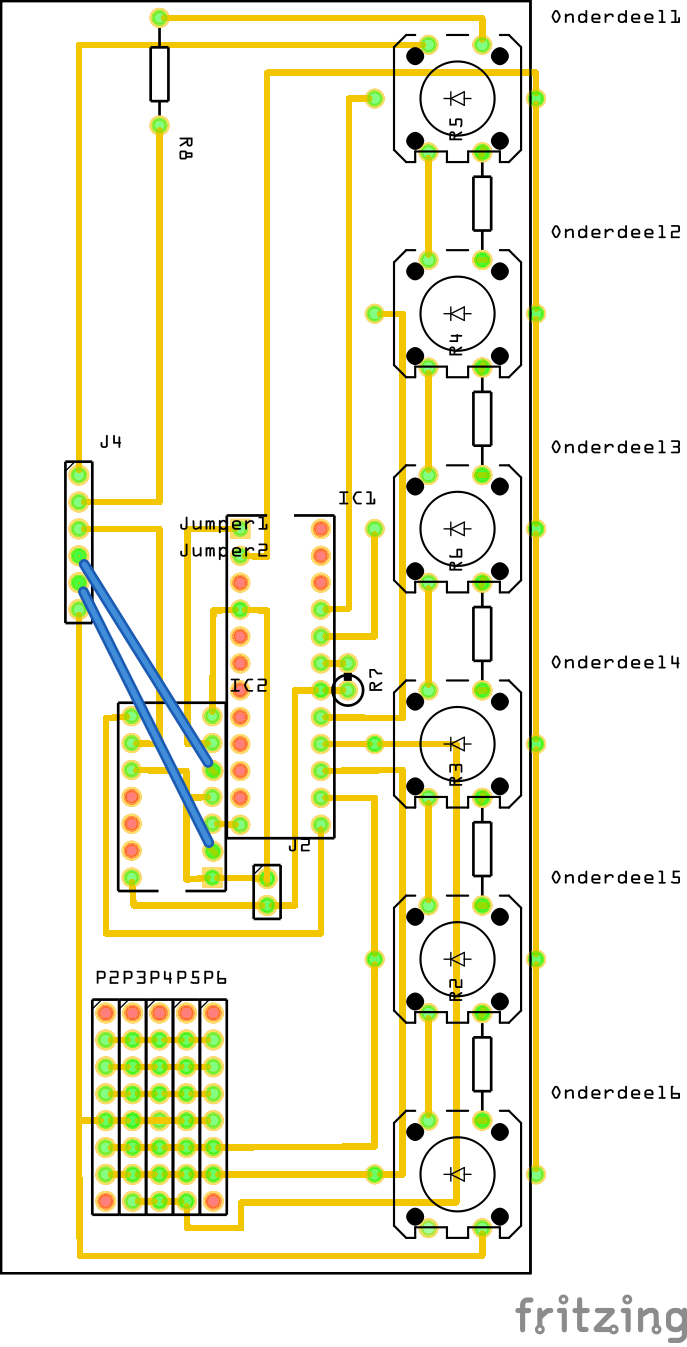
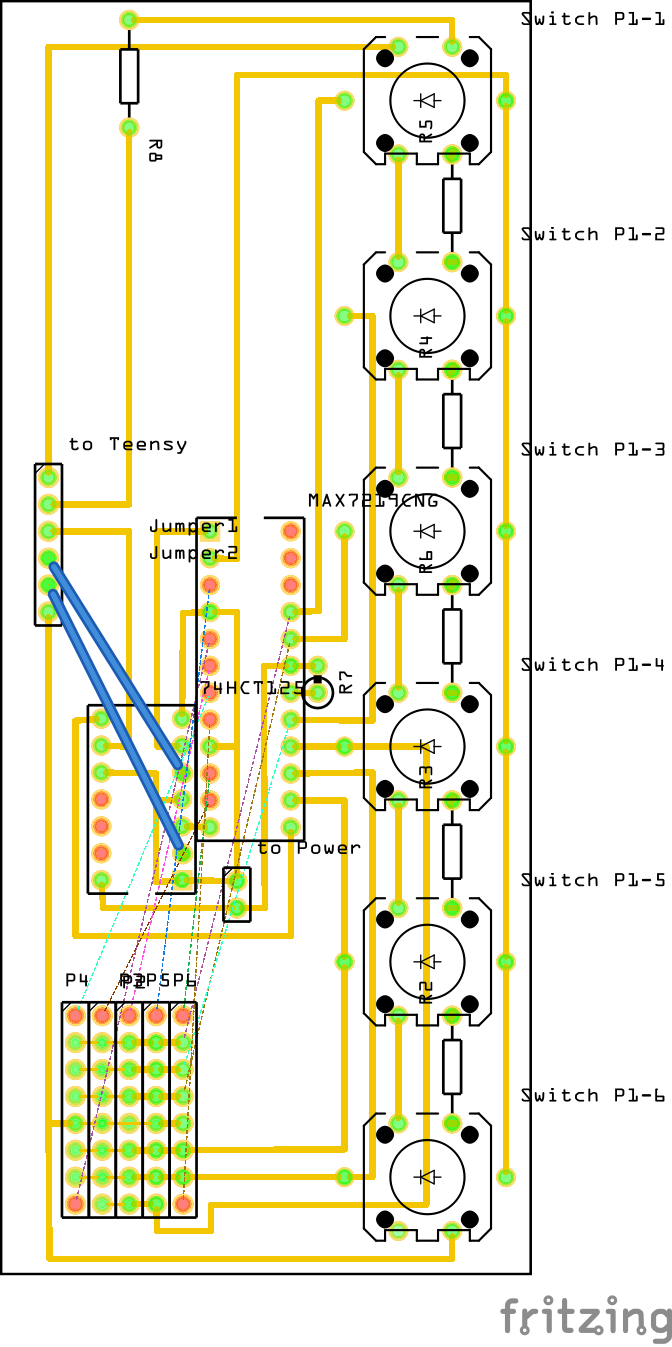
Added panel2

Changed region(s): [[0.0312, 0.0, 1.0, 0.9978]]

diff --git a/LED-panels.md b/LED-panels.md
@@ -2,13 +2,25 @@
 
 LED Panel #1 contains the blue LEDs, and the MAX7219CNG and the 74HCT125 ICs.
 
-From panel #1 the connections are made to the other panels (#2 to #6).
+From panel #1 the connections are made to the other panels (#2 to #6), as depicted in the schema:
+
+![](panel1-schema.png)
 
 We use female-female jumper cables to connect all panels together. 8-pin cables to connect all panels and a 6-pin cable to connect the panel #1 PCB to the Teensy PCB.
 
+## PCBs
+
+PCB panels may not be correct: placement of diodes should be common cathode! At this moment, they are common anode :-). But the switch is bidirectional, so you can just rotate the switches.
+
+### Panel #1
+
 ![](panel1-pcb.png)
 
-Mind: this PCB is not finished: a lot of jumper wires are missing!
+Some jumper cables are not placed to not cloud the pcb, the dotted lines mark which jumper cables should be placed.
+
+### Panel #2
+
+![](panel2-pcb.png)
 
 ## BOM
 
@@ -28,7 +40,7 @@ For panel #1:
 
 For panel #2:
 
-- 1x PCB 10x2.1
+- 1x PCB 10x2.2
 - 1x male header 8 pins (from panel #1)
 - 5x red tactle LED button
 - 1x male header 2 pins (to teensy)
